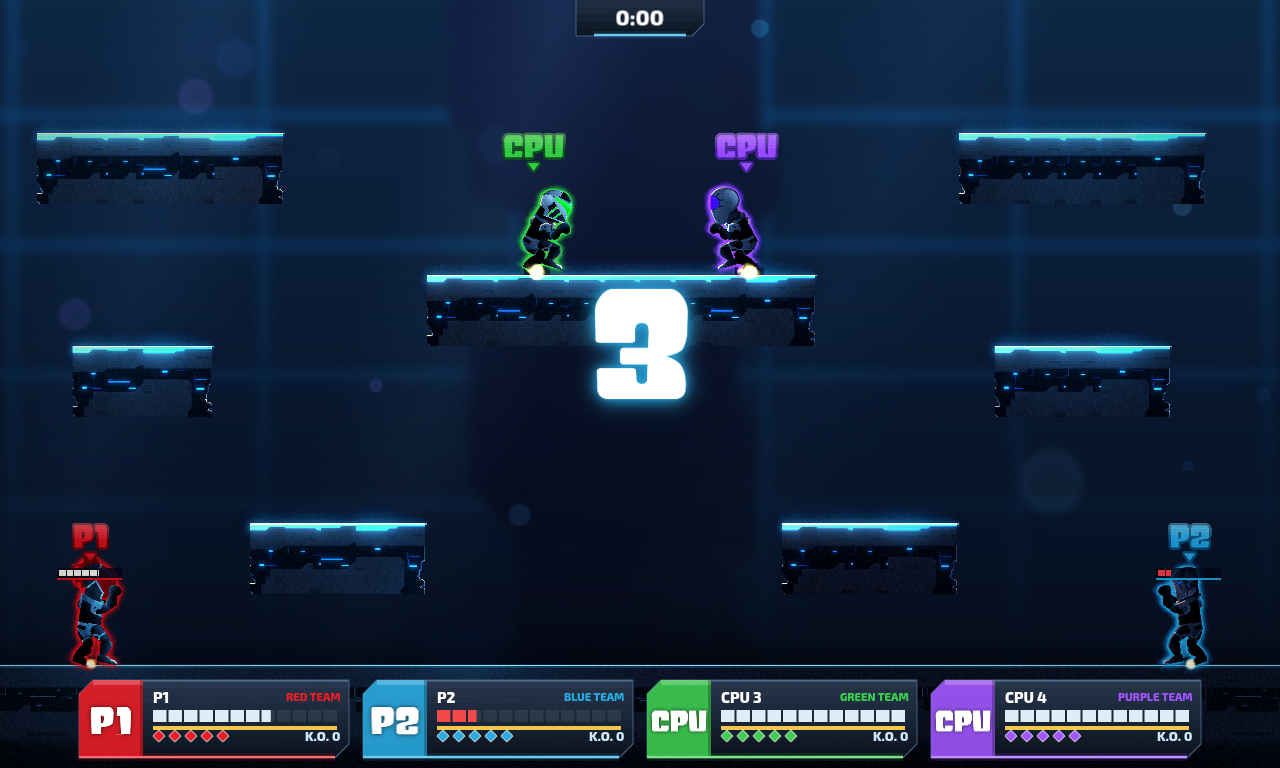
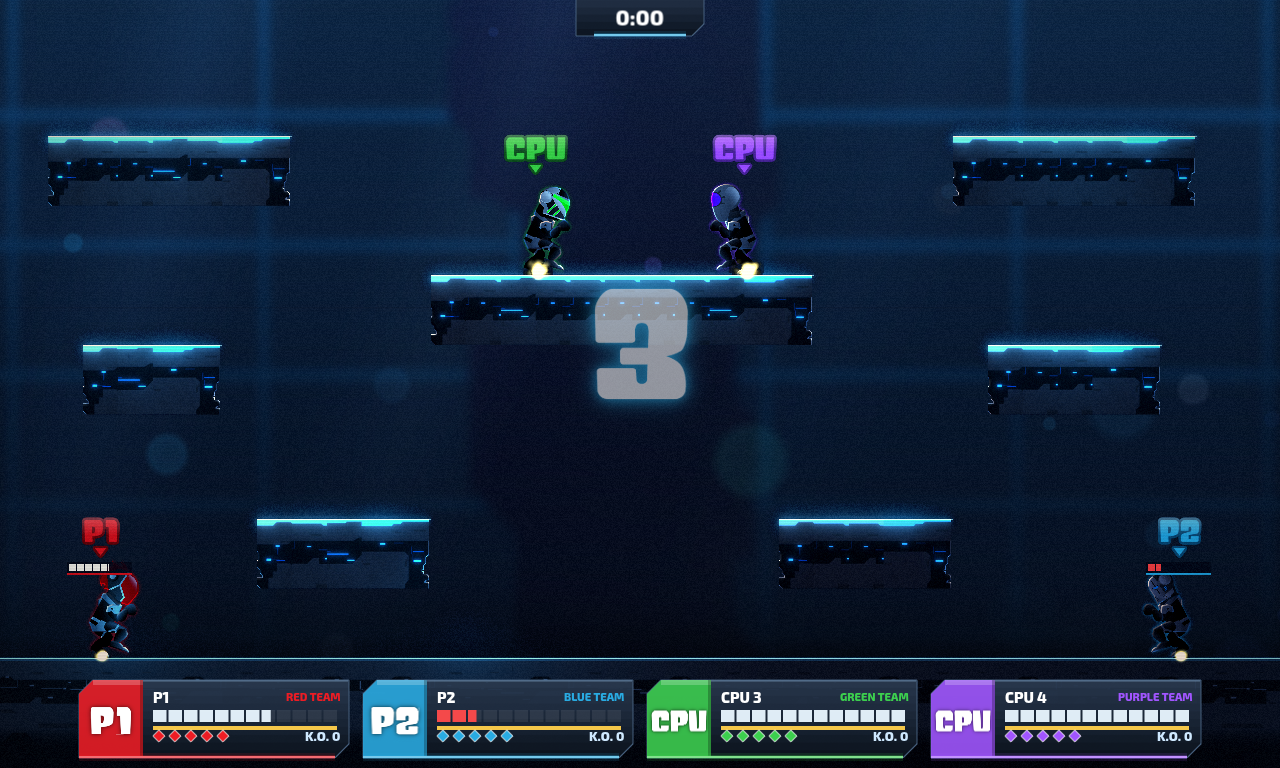
Player glow: much more subtle

diff --git a/web/src/game/Kubotz.ts b/web/src/game/Kubotz.ts
@@ -429,7 +429,7 @@ export class Kubotz implements Damageable, Teamed {
     // Helmets and the laser blade are painted in the player's colour.
     this.model = new Robot2D(scene, rig, (file) => partTexture(scene.textures, file, color));
     // A soft outer glow in the player's colour, so robots stay apart in a close fight (WebGL only).
-    this.model.view.postFX?.addGlow(color, 2, 0, false, 0.1, 10);
+    this.model.view.postFX?.addGlow(color, 0.7, 0, false, 0.1, 6);
     this.healthBar = scene.add.graphics().setDepth(20);
     // The P1 / P2 / P3 / P4 / CPU arrow label floats above the robot.
     const who = controller.label === 'CPU' ? 'CPU' : controller.name ?? controller.label;
